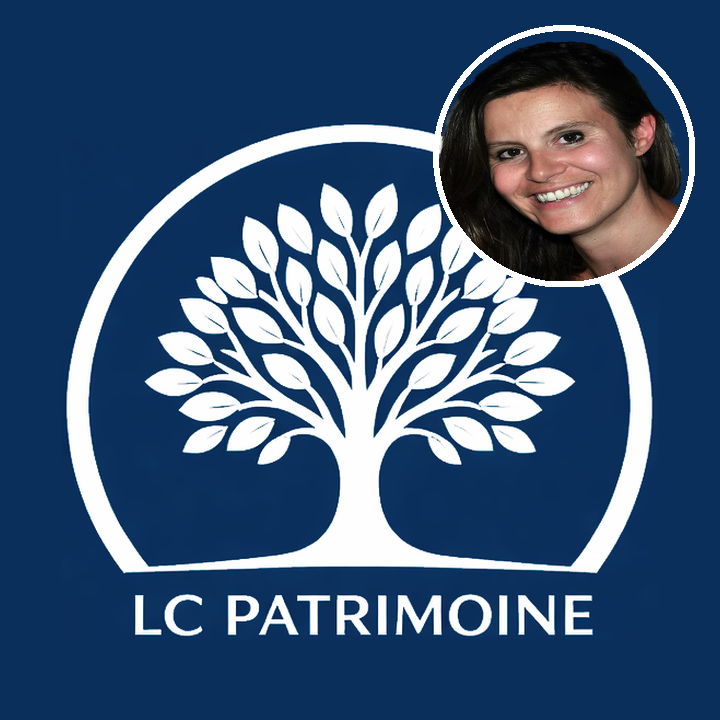
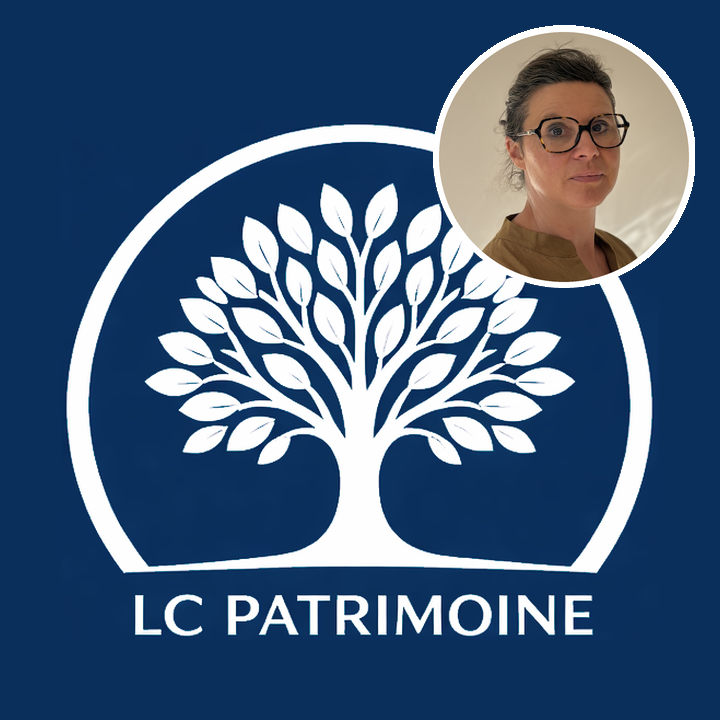
site: nouvelle photo de Carine cerclee aux couleurs de la marque
- photo « A propos » remplacee (photo-carine.jpg 360x360, ~30 Ko,
  au lieu de l'ancien PNG detoure de 385 Ko)
- cercle bleu nuit + anneau or en CSS sur .about-photo img
- style.css?v=26 sur les 29 pages et dans generate-article.py
  pour forcer le rechargement du CSS
- visuels Google Business : google-business-cover.png refait avec la
  nouvelle photo, photo de profil 720x720 dans google-business/

Claude-Session: https://claude.ai/code/session_01TycwNXt6Nm394MEJXdnbUQ

Changed region(s): [[0.6111, 0.0306, 0.9778, 0.3972]]

diff --git a/index.html b/index.html
@@ -21,7 +21,7 @@
     <link rel="canonical" href="https://www.lcpatrimoine.net">
     <link rel="icon" href="favicon.ico" type="image/x-icon">
     <link rel="icon" href="favicon-192.png" type="image/png" sizes="192x192">
-    <link rel="stylesheet" href="style.css?v=25">
+    <link rel="stylesheet" href="style.css?v=26">
 
     <meta property="og:title" content="LC Patrimoine — Gestion de patrimoine en Île-de-France">
     <meta property="og:description" content="Cabinet indépendant. Simulateur d'économie d'impôt gratuit. Défiscalisation PER, Girardin, GFI, Denormandie. Placements, retraite, succession.">
@@ -254,7 +254,7 @@
         <div class="container">
             <div style="display:grid; grid-template-columns: auto 1fr; gap:48px; align-items:center; max-width:900px; margin:0 auto;">
                 <div class="about-photo">
-                    <img src="photo-carine.png" alt="Carine Savajols, fondatrice de LC Patrimoine">
+                    <img src="photo-carine.jpg" alt="Carine Savajols, fondatrice de LC Patrimoine" width="180" height="180">
                     <h3>Carine Savajols</h3>
                     <p>Fondatrice</p>
                 </div>

diff --git a/blog/courbe-friggit-immobilier-2026.html b/blog/courbe-friggit-immobilier-2026.html
@@ -17,7 +17,7 @@
     <link rel="canonical" href="https://www.lcpatrimoine.net/blog/courbe-friggit-immobilier-2026">
     <link rel="icon" href="../favicon.ico" type="image/x-icon">
     <link rel="icon" href="../favicon-192.png" type="image/png" sizes="192x192">
-    <link rel="stylesheet" href="../style.css?v=25">
+    <link rel="stylesheet" href="../style.css?v=26">
     <meta property="og:title" content="Courbe de Friggit 2026 : l'immobilier est-il surévalué ?">
     <meta property="og:description" content="Courbe et tunnel de Friggit : à Paris, les prix rapportés aux revenus ont doublé depuis 2000. Ce que cela change pour investir dans l'immobilier en 2026.">
     <meta property="og:type" content="article">

diff --git a/blog/per-comment-reduire-ses-impots.html b/blog/per-comment-reduire-ses-impots.html
@@ -17,7 +17,7 @@
     <link rel="canonical" href="https://www.lcpatrimoine.net/blog/per-comment-reduire-ses-impots">
     <link rel="icon" href="../favicon.ico" type="image/x-icon">
     <link rel="icon" href="../favicon-192.png" type="image/png" sizes="192x192">
-    <link rel="stylesheet" href="../style.css?v=25">
+    <link rel="stylesheet" href="../style.css?v=26">
     <meta property="og:title" content="PER : comment réduire ses impôts tout en préparant sa retraite ?">
     <meta property="og:description" content="Le Plan d'Épargne Retraite permet de déduire vos versements de votre revenu imposable. Découvrez comment en profiter.">
     <meta property="og:type" content="article">

diff --git a/blog/dispositif-jeanbrun-statut-bailleur-prive.html b/blog/dispositif-jeanbrun-statut-bailleur-prive.html
@@ -17,7 +17,7 @@
     <link rel="canonical" href="https://www.lcpatrimoine.net/blog/dispositif-jeanbrun-statut-bailleur-prive">
     <link rel="icon" href="../favicon.ico" type="image/x-icon">
     <link rel="icon" href="../favicon-192.png" type="image/png" sizes="192x192">
-    <link rel="stylesheet" href="../style.css?v=25">
+    <link rel="stylesheet" href="../style.css?v=26">
     <meta property="og:title" content="Dispositif Jeanbrun : le nouveau statut du bailleur privé">
     <meta property="og:description" content="Amortir jusqu'à 5,5 % par an un logement loué nu : ce que change le dispositif Jeanbrun pour les investisseurs.">
     <meta property="og:type" content="article">

diff --git a/blog/bce-hausse-taux-epargne-2026.html b/blog/bce-hausse-taux-epargne-2026.html
@@ -17,7 +17,7 @@
     <link rel="canonical" href="https://www.lcpatrimoine.net/blog/bce-hausse-taux-epargne-2026">
     <link rel="icon" href="../favicon.ico" type="image/x-icon">
     <link rel="icon" href="../favicon-192.png" type="image/png" sizes="192x192">
-    <link rel="stylesheet" href="../style.css?v=25">
+    <link rel="stylesheet" href="../style.css?v=26">
     <meta property="og:title" content="La BCE remonte ses taux : qu'est-ce que ça change pour votre épargne ?">
     <meta property="og:description" content="Livret A, assurance-vie, PER : ce que la hausse des taux de la BCE change concrètement pour votre épargne.">
     <meta property="og:type" content="article">

diff --git a/assurance-emprunteur.html b/assurance-emprunteur.html
@@ -17,7 +17,7 @@
     <link rel="canonical" href="https://www.lcpatrimoine.net/assurance-emprunteur">
     <link rel="icon" href="favicon.ico" type="image/x-icon">
     <link rel="icon" href="favicon-192.png" type="image/png" sizes="192x192">
-    <link rel="stylesheet" href="style.css?v=25">
+    <link rel="stylesheet" href="style.css?v=26">
     <meta property="og:title" content="Assurance emprunteur : négociation et économies | LC Patrimoine">
     <meta property="og:description" content="Loi Lemoine : changez votre assurance emprunteur à tout moment et économisez jusqu'à 14 000 €. Conseil indépendant en Île-de-France.">
     <meta property="og:type" content="website">

diff --git a/blog/retraite-regle-4-pourcent.html b/blog/retraite-regle-4-pourcent.html
@@ -17,7 +17,7 @@
     <link rel="canonical" href="https://www.lcpatrimoine.net/blog/retraite-regle-4-pourcent">
     <link rel="icon" href="../favicon.ico" type="image/x-icon">
     <link rel="icon" href="../favicon-192.png" type="image/png" sizes="192x192">
-    <link rel="stylesheet" href="../style.css?v=25">
+    <link rel="stylesheet" href="../style.css?v=26">
     <meta property="og:title" content="Règle des 4 % : quel capital faut-il pour votre retraite ?">
     <meta property="og:description" content="La règle des 4 % : origine, calcul et limites. Combien faut-il épargner pour compléter sa pension de retraite ?">
     <meta property="og:type" content="article">

diff --git a/transmission.html b/transmission.html
@@ -17,7 +17,7 @@
     <link rel="canonical" href="https://www.lcpatrimoine.net/transmission">
     <link rel="icon" href="favicon.ico" type="image/x-icon">
     <link rel="icon" href="favicon-192.png" type="image/png" sizes="192x192">
-    <link rel="stylesheet" href="style.css?v=25">
+    <link rel="stylesheet" href="style.css?v=26">
     <meta property="og:title" content="Transmission de patrimoine | LC Patrimoine">
     <meta property="og:description" content="Donation, démembrement, assurance-vie, GFI, SCI familiale. Réduisez les droits de succession et protégez vos proches. Conseil indépendant en Île-de-France.">
     <meta property="og:type" content="website">

diff --git a/investissement.html b/investissement.html
@@ -17,7 +17,7 @@
     <link rel="canonical" href="https://www.lcpatrimoine.net/investissement">
     <link rel="icon" href="favicon.ico" type="image/x-icon">
     <link rel="icon" href="favicon-192.png" type="image/png" sizes="192x192">
-    <link rel="stylesheet" href="style.css?v=25">
+    <link rel="stylesheet" href="style.css?v=26">
     <meta property="og:title" content="Placements et investissements | LC Patrimoine">
     <meta property="og:description" content="Assurance-vie, SCPI, immobilier locatif, LMNP, contrat de capitalisation. Faites fructifier votre épargne. Conseil indépendant en Île-de-France.">
     <meta property="og:type" content="website">

diff --git a/immobilier.html b/immobilier.html
@@ -17,7 +17,7 @@
     <link rel="canonical" href="https://www.lcpatrimoine.net/immobilier">
     <link rel="icon" href="favicon.ico" type="image/x-icon">
     <link rel="icon" href="favicon-192.png" type="image/png" sizes="192x192">
-    <link rel="stylesheet" href="style.css?v=25">
+    <link rel="stylesheet" href="style.css?v=26">
     <meta property="og:title" content="Investissement immobilier en Île-de-France | LC Patrimoine">
     <meta property="og:description" content="Jeanbrun, LMNP, Denormandie, Malraux, déficit foncier. Investissez dans l'immobilier avec un conseil indépendant en Île-de-France.">
     <meta property="og:type" content="website">

diff --git a/blog/assurance-emprunteur-loi-lemoine.html b/blog/assurance-emprunteur-loi-lemoine.html
@@ -17,7 +17,7 @@
     <link rel="canonical" href="https://www.lcpatrimoine.net/blog/assurance-emprunteur-loi-lemoine">
     <link rel="icon" href="../favicon.ico" type="image/x-icon">
     <link rel="icon" href="../favicon-192.png" type="image/png" sizes="192x192">
-    <link rel="stylesheet" href="../style.css?v=25">
+    <link rel="stylesheet" href="../style.css?v=26">
     <meta property="og:title" content="Assurance emprunteur : ce que change la loi Lemoine">
     <meta property="og:description" content="La loi Lemoine permet de changer d'assurance de prêt à tout moment. Découvrez comment en profiter.">
     <meta property="og:type" content="article">

diff --git a/defiscalisation.html b/defiscalisation.html
@@ -17,7 +17,7 @@
     <link rel="canonical" href="https://www.lcpatrimoine.net/defiscalisation">
     <link rel="icon" href="favicon.ico" type="image/x-icon">
     <link rel="icon" href="favicon-192.png" type="image/png" sizes="192x192">
-    <link rel="stylesheet" href="style.css?v=25">
+    <link rel="stylesheet" href="style.css?v=26">
     <meta property="og:title" content="Défiscalisation en Île-de-France | LC Patrimoine">
     <meta property="og:description" content="Réduisez vos impôts : PER, Girardin, Jeanbrun, Denormandie, GFI. Conseil indépendant en défiscalisation en Île-de-France.">
     <meta property="og:type" content="website">
